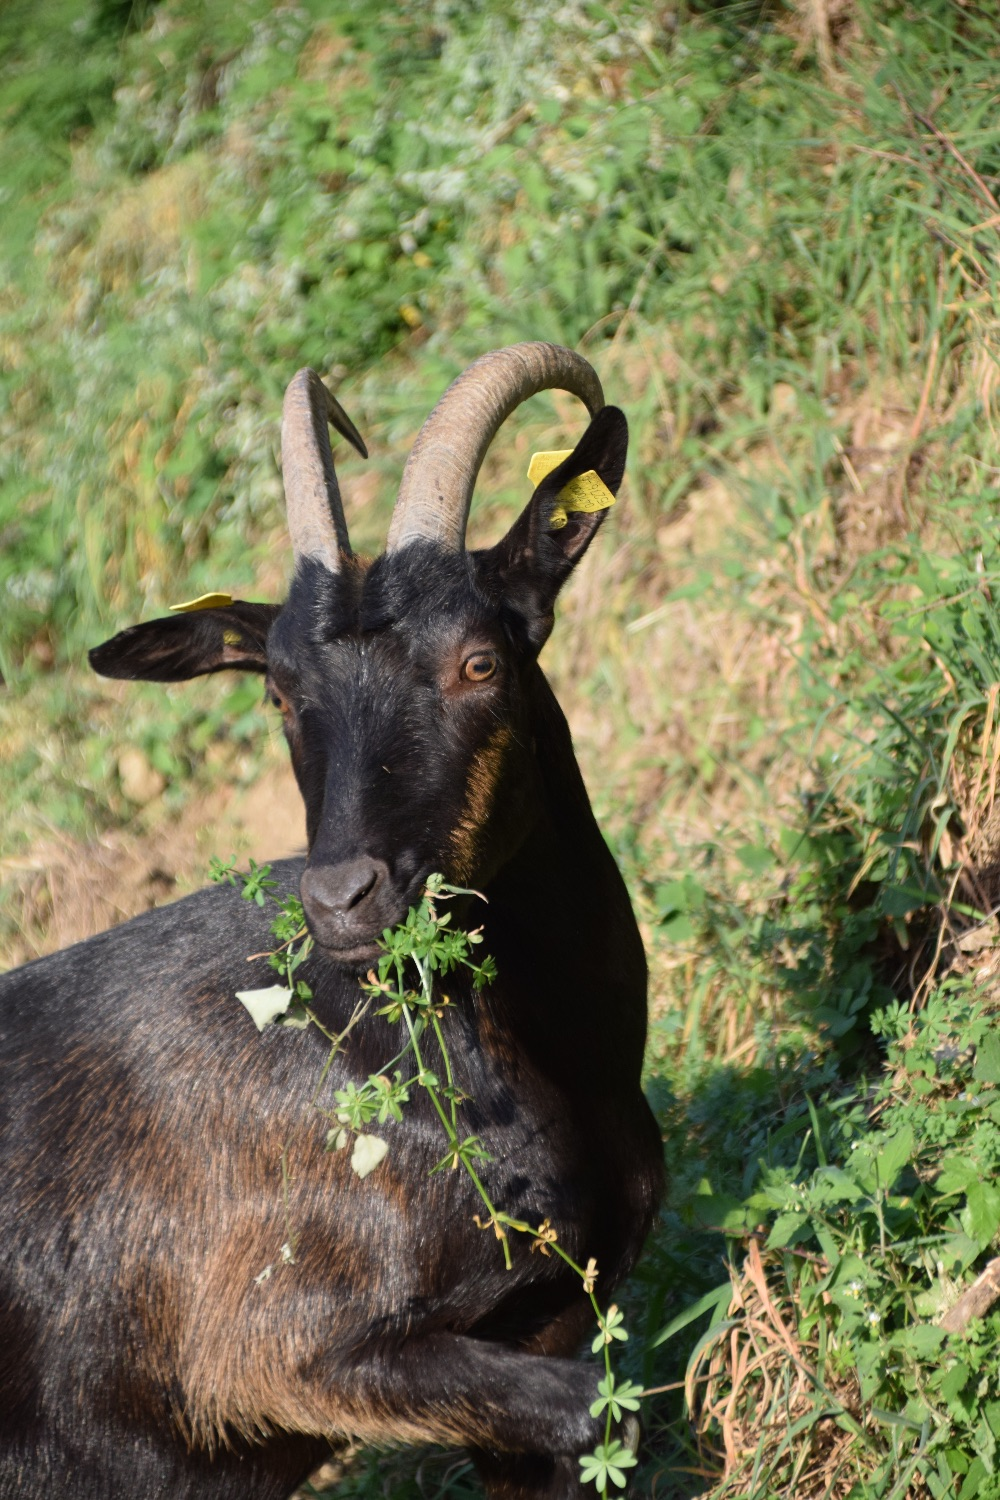
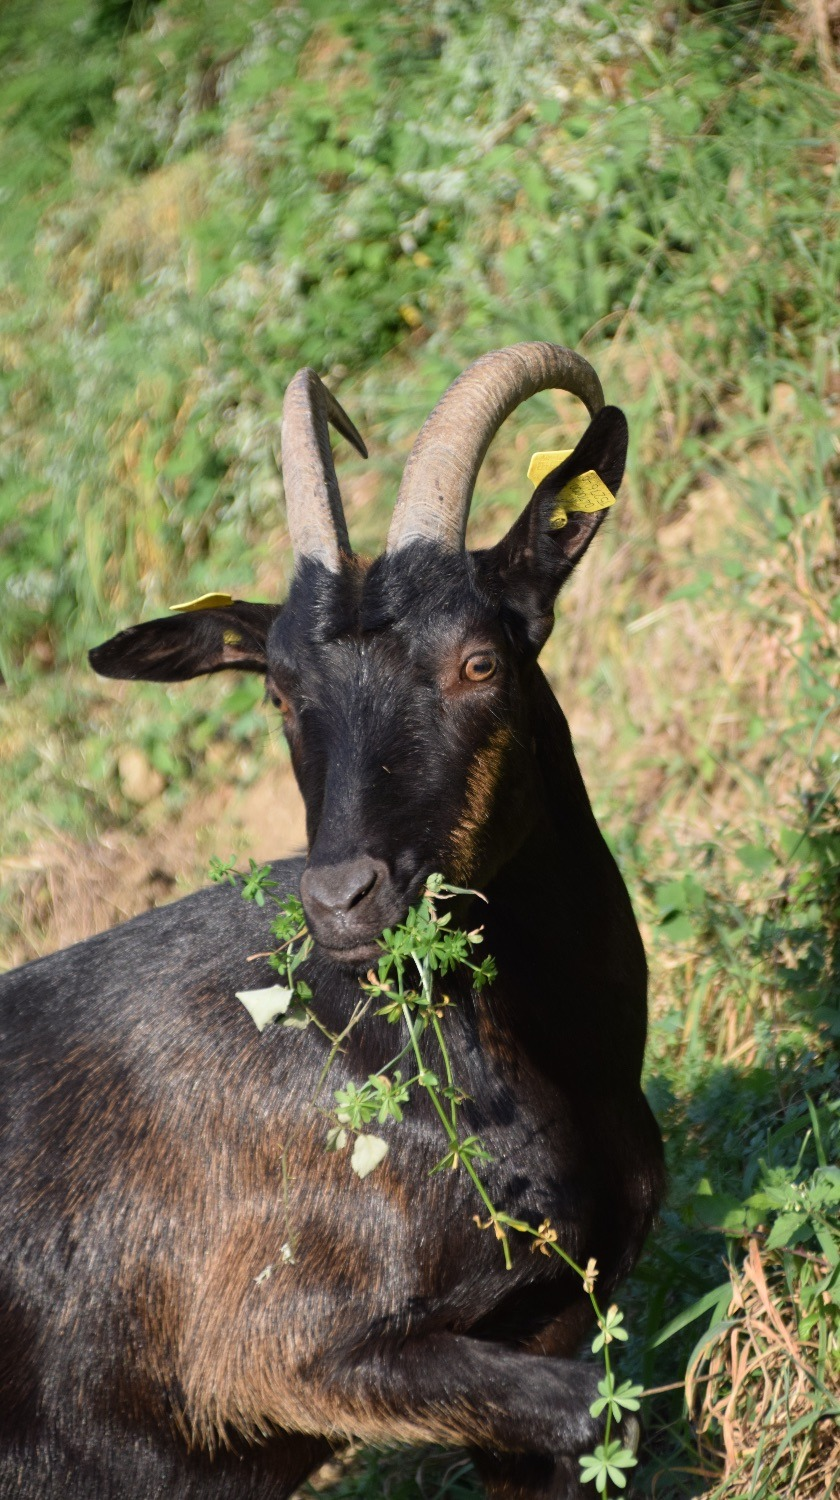
Centra la foto della capra nera nella sezione Animali
Claude-Session: https://claude.ai/code/session_014p1ztUWJWALjA1z3juuCvu

diff --git a/index.html b/index.html
@@ -558,7 +558,7 @@
                         <p>[Due righe sul suo carattere: chi è la più curiosa, la più golosa, la capobranco…] Sarà tra le prime abitanti della nuova stalla.</p>
                     </article>
                     <article class="animale">
-                        <img class="animale-foto" src="immagini%20sito/capra%20nera.jpg" alt="La capra nera che bruca l'erba sul pendio" style="object-position: 50% 40%">
+                        <img class="animale-foto" src="immagini%20sito/capra%20nera.jpg" alt="La capra nera che bruca l'erba sul pendio" style="object-position: 50% 32%">
                         <span class="tag">Allevamento familiare</span>
                         <h3>[Nome capra 2]</h3>
                         <p>[Due righe sul suo carattere] Insieme a [Nome capra 1] aspetta la nuova stalla, dove nascerà il nostro allevamento.</p>
